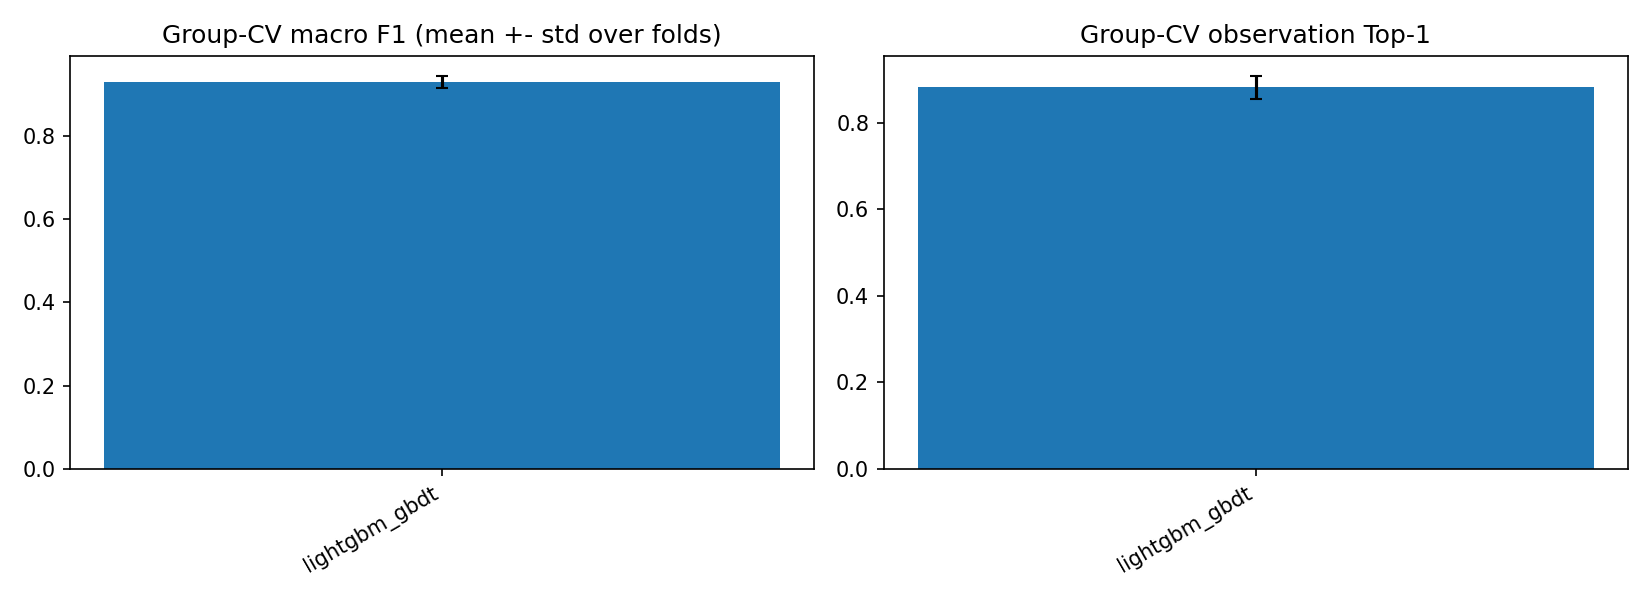
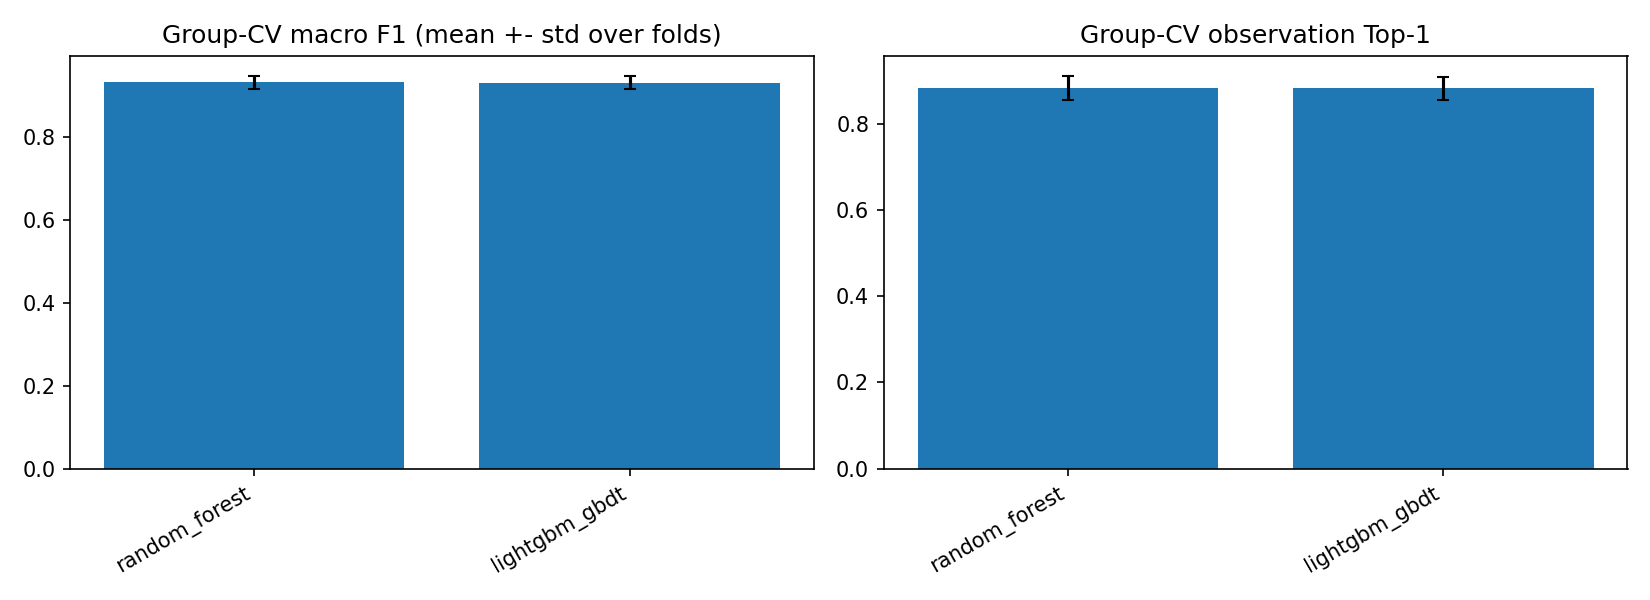
Fix route continuity metric and add full 5-model comparison
Old metric scored every consecutive pair; same-arc pairs (75-85% at 1 Hz) inflated it so a constant prediction scored 1.0. New metric judges only arc changes (drivable within 3 forward arcs, U-turn onto the twin = broken), pooled over trips, reported with arc-change ratio vs the reference route. Reference route scores 0.993; LightGBM clf-only 0.929 -> 0.657; HMM 0.981 -> 0.972. Old function kept as step_consistency. Recomputed affected results and added results/model_comparison_full.csv (LightGBM, RF, MLP, LogReg, KNN; clf-only and +HMM).

diff --git a/pathsnap/evaluate.py b/pathsnap/evaluate.py
@@ -10,6 +10,9 @@ Conventions
 * Observation-level Top-1: for each GPS point pick the candidate with the highest score;
   correct if it is the reference arc. If the reference arc is not in the candidate set the
   point counts as WRONG (conservative; the miss rate is reported separately).
+* Route continuity: share of predicted ARC CHANGES that are drivable (<= 3 forward arcs, no
+  U-turn onto the twin), pooled over all changes of all trips. Always report the number of arc
+  changes with it (ratio to the reference route's changes; ideal 1.0).
 """
 import numpy as np
 import pandas as pd
@@ -61,10 +64,72 @@ def miss_rate(points: pd.DataFrame) -> float:
     return float(1.0 - v["ref_in_cand"].mean())
 
 
-def route_continuity(pred_arcs, net) -> float:
-    """Share of consecutive observation pairs whose predicted arcs are physically
-    consistent: same arc, or arc j starts where arc i ends (v[i] == u[j]).
-    pred_arcs: (N,) predicted arc id per observation (-1 = no prediction, skipped)."""
+CONT_MAX_HOPS = 3   # reference route scores 0.908 / 0.993 / 0.996 with 1 / 3 / 5 hops (student_test)
+
+
+def _reachable(net, x, y, max_hops):
+    """Can a vehicle on arc x get onto arc y within max_hops forward arcs, never turning back
+    onto the twin of the arc it is on?"""
+    frontier, seen = [x], {x}
+    for _ in range(max_hops):
+        nxt = []
+        for f in frontier:
+            for s in net.successors(f):
+                if s == net.reverse_arc[f] or s in seen:
+                    continue
+                if s == y:
+                    return True
+                seen.add(s)
+                nxt.append(s)
+        frontier = nxt
+    return False
+
+
+def continuity_counts(pred_arcs, net, max_hops=CONT_MAX_HOPS) -> dict:
+    """Raw counts behind route_continuity (sum these over trips, then divide = pooled score).
+
+    Only ARC CHANGES are judged (consecutive observations on the same arc say nothing about
+    continuity, and at ~1 Hz they are 75-85% of all pairs). A change x -> y is good if y is
+    reachable from x within `max_hops` forward arcs without a U-turn; a flip onto the reverse
+    twin of the same road (x -> reverse(x)) is always bad. -1 (no prediction) breaks the
+    sequence: pairs across it are not judged.
+    Returns good, n_changes, n_uturn."""
+    a = np.asarray(pred_arcs, dtype=np.int64)
+    good = n_ch = n_ut = 0
+    for x, y in zip(a[:-1], a[1:]):
+        if x < 0 or y < 0 or x == y:
+            continue
+        n_ch += 1
+        if net.reverse_arc[x] == y:
+            n_ut += 1
+        elif _reachable(net, x, y, max_hops):
+            good += 1
+    return dict(good=good, n_changes=n_ch, n_uturn=n_ut)
+
+
+def continuity_from_counts(counts) -> float:
+    """Pooled continuity from one counts dict or an iterable of them (NaN if no arc changes)."""
+    if isinstance(counts, dict):
+        counts = [counts]
+    good = sum(c["good"] for c in counts)
+    n = sum(c["n_changes"] for c in counts)
+    return good / n if n else float("nan")
+
+
+def route_continuity(pred_arcs, net, max_hops=CONT_MAX_HOPS) -> float:
+    """Share of predicted ARC CHANGES that are drivable (see continuity_counts).
+    NaN when the prediction never changes arc - always report it next to the number of arc
+    changes (or their ratio to the reference route's), otherwise a constant prediction looks
+    perfect. This is a plausibility check, not accuracy: an HMM decoder enforces connectivity
+    by construction, so judge it on Top-1 / route F1 against the reference."""
+    return continuity_from_counts(continuity_counts(pred_arcs, net, max_hops))
+
+
+def step_consistency(pred_arcs, net) -> float:
+    """LEGACY metric (was called route_continuity before 2026-11-18). Share of ALL consecutive
+    pairs that are the same arc or a direct hand-over (v[i] == u[j]). Inflated: same-arc pairs
+    dominate (a constant prediction scores 1.0), U-turns onto the twin count as fine, and
+    passing through a short arc between two fixes counts as broken. Do NOT report as accuracy."""
     a = np.asarray(pred_arcs)
     ok = (a[:-1] >= 0) & (a[1:] >= 0)
     a0, a1 = a[:-1][ok], a[1:][ok]

diff --git a/experiments/harness.py b/experiments/harness.py
@@ -25,7 +25,7 @@ import pandas as pd
 import config
 from pathsnap.features import FEATURE_COLS
 from pathsnap.evaluate import (assign_folds, N_FOLDS, candidate_metrics, observation_top1,
-                               route_continuity)
+                               continuity_counts, continuity_from_counts)
 from pathsnap.io import trip_dir
 from pathsnap.pipeline import PreparedTrip
 
@@ -89,16 +89,23 @@ def cross_validate(mod, params, tr, seed=config.SEED, folds=None):
 
 
 def _clf_continuity(te, prob):
-    """Classifier-only route continuity on student_test (top-1 candidate per GPS point)."""
-    vals, wts = [], []
+    """Classifier-only route continuity on student_test (top-1 candidate per GPS point),
+    pooled over all arc changes of all trips, plus arc-change counts vs the reference route."""
+    pc, rc = [], []
     for tid, g in te.assign(_p=prob).groupby("trip_id", sort=False):
-        prep = PreparedTrip(trip_dir("student_test", tid), with_labels=False)
+        prep = PreparedTrip(trip_dir("student_test", tid), with_labels=True)
         top = g.loc[g.groupby("obs_idx")["_p"].idxmax()]
         pred = np.full(len(prep.P), -1, dtype=np.int64)
         pred[top["obs_idx"].to_numpy()] = top["arc_id"].to_numpy()
-        vals.append(route_continuity(pred, prep.net))
-        wts.append(len(prep.P))
-    return float(np.average(vals, weights=wts))
+        pc.append(continuity_counts(pred, prep.net))
+        rc.append(continuity_counts(prep.ref["ref_arc"], prep.net))
+    n_pred = sum(c["n_changes"] for c in pc)
+    n_ref = sum(c["n_changes"] for c in rc)
+    return dict(route_continuity_clf_only=continuity_from_counts(pc),
+                route_changes_clf=n_pred, route_changes_ref=n_ref,
+                route_change_ratio_clf=n_pred / n_ref if n_ref else float("nan"),
+                uturn_flips_clf=sum(c["n_uturn"] for c in pc),
+                route_continuity_ref=continuity_from_counts(rc))
 
 
 def run_experiment(name, params=None, tag=None, seed=config.SEED, tables=None, verbose=True):
@@ -130,7 +137,7 @@ def run_experiment(name, params=None, tag=None, seed=config.SEED, tables=None, v
     ph = (np.clip(pte[te["ref_valid"].to_numpy()], 0, 1) >= 0.5).astype(int)
     cm = [[int(((yv == 0) & (ph == 0)).sum()), int(((yv == 0) & (ph == 1)).sum())],
           [int(((yv == 1) & (ph == 0)).sum()), int(((yv == 1) & (ph == 1)).sum())]]
-    m.update(confusion_matrix=cm, route_continuity_clf_only=_clf_continuity(te, pte),
+    m.update(confusion_matrix=cm, **_clf_continuity(te, pte),
              train_time_s=train_s, inference_time_s=infer_s,
              inference_ms_per_1k_rows=1000 * infer_s / (len(te) / 1000), n_train_rows=int(len(fit_df)))
     if verbose:

diff --git a/scripts/eval_hmm.py b/scripts/eval_hmm.py
@@ -20,7 +20,7 @@ import config
 from pathsnap.io import list_trips, trip_dir
 from pathsnap.pipeline import PreparedTrip
 from pathsnap.hmm import HMMParams, TransitionGeometry, decode
-from pathsnap.evaluate import route_continuity, sequence_scores
+from pathsnap.evaluate import continuity_counts, continuity_from_counts, sequence_scores
 
 
 def load_params(path):
@@ -42,11 +42,17 @@ def eval_trip(partition, tid, prob, params):
     hmm = decode(prep, prob, params, tg)["pred_arc"]
     ref = pt.ref_arc.to_numpy()
     row = dict(trip_id=tid, n_valid=int(valid.sum()))
+    rc = continuity_counts(ref, prep.net)
+    row["ref_changes"] = rc["n_changes"]
     for name, pred in (("clf", clf), ("hmm", hmm)):
         s = sequence_scores(pred, ref, valid)
+        cc = continuity_counts(pred, prep.net)
         row[f"{name}_top1"] = s["pointwise_accuracy"]
         row[f"{name}_route_f1"] = s["route_arc_f1"]
-        row[f"{name}_continuity"] = route_continuity(pred, prep.net)
+        row[f"{name}_continuity"] = continuity_from_counts(cc)
+        row[f"{name}_cont_good"] = cc["good"]
+        row[f"{name}_changes"] = cc["n_changes"]
+        row[f"{name}_uturns"] = cc["n_uturn"]
     return row
 
 
@@ -66,7 +72,13 @@ def main():
     w = df.n_valid
     allrow = {"trip_id": "ALL(weighted)", "n_valid": int(w.sum())}
     for c in df.columns[2:]:
-        allrow[c] = float(np.average(df[c].fillna(0), weights=w))
+        if c.endswith(("_cont_good", "_changes", "_uturns")):
+            allrow[c] = int(df[c].sum())
+        elif not c.endswith("_continuity"):
+            allrow[c] = float(np.average(df[c].fillna(0), weights=w))
+    for name in ("clf", "hmm"):     # continuity is pooled over arc changes, not averaged over trips
+        allrow[f"{name}_continuity"] = allrow[f"{name}_cont_good"] / max(allrow[f"{name}_changes"], 1)
+        allrow[f"{name}_change_ratio"] = allrow[f"{name}_changes"] / max(allrow["ref_changes"], 1)
     df = pd.concat([df, pd.DataFrame([allrow])], ignore_index=True)
     out = config.RESULTS_DIR / f"hmm_eval_{a.probs}_{a.partition}.csv"
     df.to_csv(out, index=False)

diff --git a/scripts/tune_hmm.py b/scripts/tune_hmm.py
@@ -21,7 +21,7 @@ import config
 from pathsnap.io import list_trips, trip_dir
 from pathsnap.pipeline import PreparedTrip
 from pathsnap.hmm import HMMParams, TransitionGeometry, decode
-from pathsnap.evaluate import route_continuity
+from pathsnap.evaluate import continuity_counts
 
 GRID = dict(beta=[8.0, 15.0, 30.0, 60.0], lam_break=[6.0, 12.0, 24.0],
             lam_uturn=[0.0, 6.0, 12.0], eps=[1e-3, 1e-4], back_pen=[1.0], back_free_m=[10.0], w_head=[0.0])
@@ -41,9 +41,8 @@ def trip_counts(partition, tid, prob, sets):
     out = []
     for s in sets:
         pred = decode(prep, prob, HMMParams(**s), tg)["pred_arc"]
-        a = pred[:-1]; b = pred[1:]
-        cont = int(((a == b) | (prep.net.v[a] == prep.net.u[b])).sum())
-        out.append((int((pred[valid] == ref[valid]).sum()), int(valid.sum()), cont, len(pred) - 1))
+        cc = continuity_counts(pred, prep.net)
+        out.append((int((pred[valid] == ref[valid]).sum()), int(valid.sum()), cc["good"], cc["n_changes"]))
     return out
 
 

diff --git a/scripts/compare_models.py b/scripts/compare_models.py
@@ -32,7 +32,9 @@ def main():
                          cv_top1=c["top1_mean"], cv_top1_std=c["top1_std"], cv_log_loss=c["log_loss_mean"],
                          test_top1=s["top1_accuracy"], test_precision_macro=s["precision_macro"],
                          test_recall_macro=s["recall_macro"], test_f1_macro=s["f1_macro"], test_log_loss=s["log_loss"],
-                         route_continuity=s["route_continuity_clf_only"], train_time_s=s["train_time_s"],
+                         route_continuity=s["route_continuity_clf_only"],
+                         route_change_ratio=s.get("route_change_ratio_clf", np.nan),   # ideal 1.0
+                         train_time_s=s["train_time_s"],
                          inference_s=s["inference_time_s"], inference_ms_per_1k_rows=s["inference_ms_per_1k_rows"],
                          n_train_rows=s["n_train_rows"]))
     df = pd.DataFrame(rows).sort_values("cv_top1", ascending=False)

diff --git a/pathsnap/inference.py b/pathsnap/inference.py
@@ -65,8 +65,10 @@ def run_trip(tdir, predict_proba, params: HMMParams | None = None, evaluate=Fals
         pred_route_polyline=arcs_to_polyline(prep, route_arcs),
         route_breaks=int(breaks),
         n_imputed=int(res["imputed"].sum()),
-        continuity_hmm=route_continuity(pred, prep.net),
+        continuity_hmm=route_continuity(pred, prep.net),      # share of arc changes that are drivable
         continuity_clf=route_continuity(clf, prep.net),
+        arc_changes_hmm=int(np.sum((pred[:-1] != pred[1:]) & (pred[:-1] >= 0) & (pred[1:] >= 0))),
+        arc_changes_clf=int(np.sum((clf[:-1] != clf[1:]) & (clf[:-1] >= 0) & (clf[1:] >= 0))),
         timing_s=dict(prepare=t_prep - t0, model=t_model - t_prep, decode=t_dec - t_model,
                       total=t_dec - t0),
     )

diff --git a/docs/HANDOFF.md b/docs/HANDOFF.md
@@ -115,6 +115,14 @@ log loss for probability quality (HMM consumes probabilities).
 `scripts/run_experiment.py <name>` does the group CV (same 5 folds for everyone), only trains on `ref_valid` rows, and logs
 per fold + student-test: accuracy, macro precision/recall/F1, log loss, observation Top-1, confusion matrix, classifier-only
 route continuity, train time, inference time, config and seed - exactly the columns of the report's comparison table.
+
+**Route continuity definition (changed 2026-11-18, `pathsnap/evaluate.py`).** Share of predicted *arc changes*
+(consecutive observations on different arcs) that are drivable: the next arc is reachable within 3 forward arcs
+without a U-turn; a flip onto the reverse twin of the same road is always broken. Pooled over all arc changes of all
+trips, and always reported with the number of arc changes as a ratio to the reference route's (ideal 1.0). The old
+version scored every consecutive pair, so same-arc pairs (75-85% at 1 Hz) inflated it: a constant prediction scored
+1.0 and LightGBM 0.929 (now 0.657). The old function is kept as `step_consistency` - do not report it as accuracy.
+For the HMM, continuity is near-guaranteed by its transition model; judge it on Top-1 and route F1.
 `results/model_comparison.csv` is built from those JSONs. It also saves out-of-fold probabilities
 (`data/processed/probs_<model>_{train_oof,student_test}.parquet`: `trip_id, obs_idx, arc_id, prob`) which P1 uses to
 tune the HMM decoder (`python scripts/tune_hmm.py --probs <model>`), and `models/<name>.joblib` =
@@ -146,11 +154,13 @@ out = run_trip(trip_dir, lambda X: art["model"].predict_proba(X)[:, 1], evaluate
 * Heuristic floors (valid points): nearest arc only = 56% top-1; distance+heading rule = 84.6% (train),
   84.3% (student_test). Beat these!
 * **Model 1, LightGBM (`results/experiments/lightgbm_gbdt.json`, initial config):** CV macro-F1 0.931 +- 0.015,
-  CV Top-1 0.883; student-test Top-1 0.892, macro-F1 0.936, log loss 0.065, classifier-only route continuity 0.929.
+  CV Top-1 0.883; student-test Top-1 0.892, macro-F1 0.936, log loss 0.065, classifier-only route continuity 0.657
+  (1.57x the reference route's arc changes, 646 U-turn flips onto the twin arc).
   Train time ~15 s, inference ~0.3 s for all 10 test trips.
 * Harness sanity check with Gaussian NB (template, not one of the five): student-test Top-1 0.817 - below the 0.843
   heuristic, so a model must clear that bar to be worth keeping.
-* **HMM on top of LightGBM (student_test): top-1 89.2% -> 94.3%, route continuity 92.9% -> 98.1%**
+* **HMM on top of LightGBM (student_test): top-1 89.2% -> 94.3%, route F1 91.3% -> 97.3%,
+  route continuity 65.7% -> 97.2%** (reference route itself: 99.3%; arc changes 1.57x -> 1.04x the reference's)
   (decoder tuned on the earlier stand-in copy of this same model; re-tuned on the final model later);
   HMM helped on every one of the 10 student-test trips.
 * Data caveat: train trips `00000054` (10.7% valid) and `00000033` (33%) have very noisy GPS (median 120-140 m

diff --git a/docs/PERSON1_EXPLAINER.md b/docs/PERSON1_EXPLAINER.md
@@ -82,7 +82,8 @@ dt_prev, heading_valid) add nothing; importance is not causal and correlated fea
    can "restart" on a new part of the network instead of failing. `connect_route` then bridges non-adjacent consecutive
    arcs with the shortest path if one exists within 2.5 km, otherwise records a *route break*.
 6. **Did it help?** (student_test, stand-in classifier, `results/hmm_eval_standin_lgbm_student_test.csv`):
-   top-1 89.2% -> 94.1% with default parameters, 94.3% after tuning; route continuity 92.9% -> 98.1%; better on all 10
+   top-1 89.2% -> 94.1% with default parameters, 94.3% after tuning; route F1 91.3% -> 97.3%; route continuity
+   (share of arc changes that are drivable, see `evaluate.route_continuity`) 65.7% -> 97.2%; better on all 10
    trips. Parameter search (`scripts/tune_hmm.py`, 72 settings, train out-of-fold probabilities only): best
    beta=8, lam_break=24, lam_uturn=12, eps=1e-3. The best values sit at the edge of the grid, so the gain from
    tuning is small and a wider search might help slightly. Cases where it can fail: very noisy GPS where the emissions
